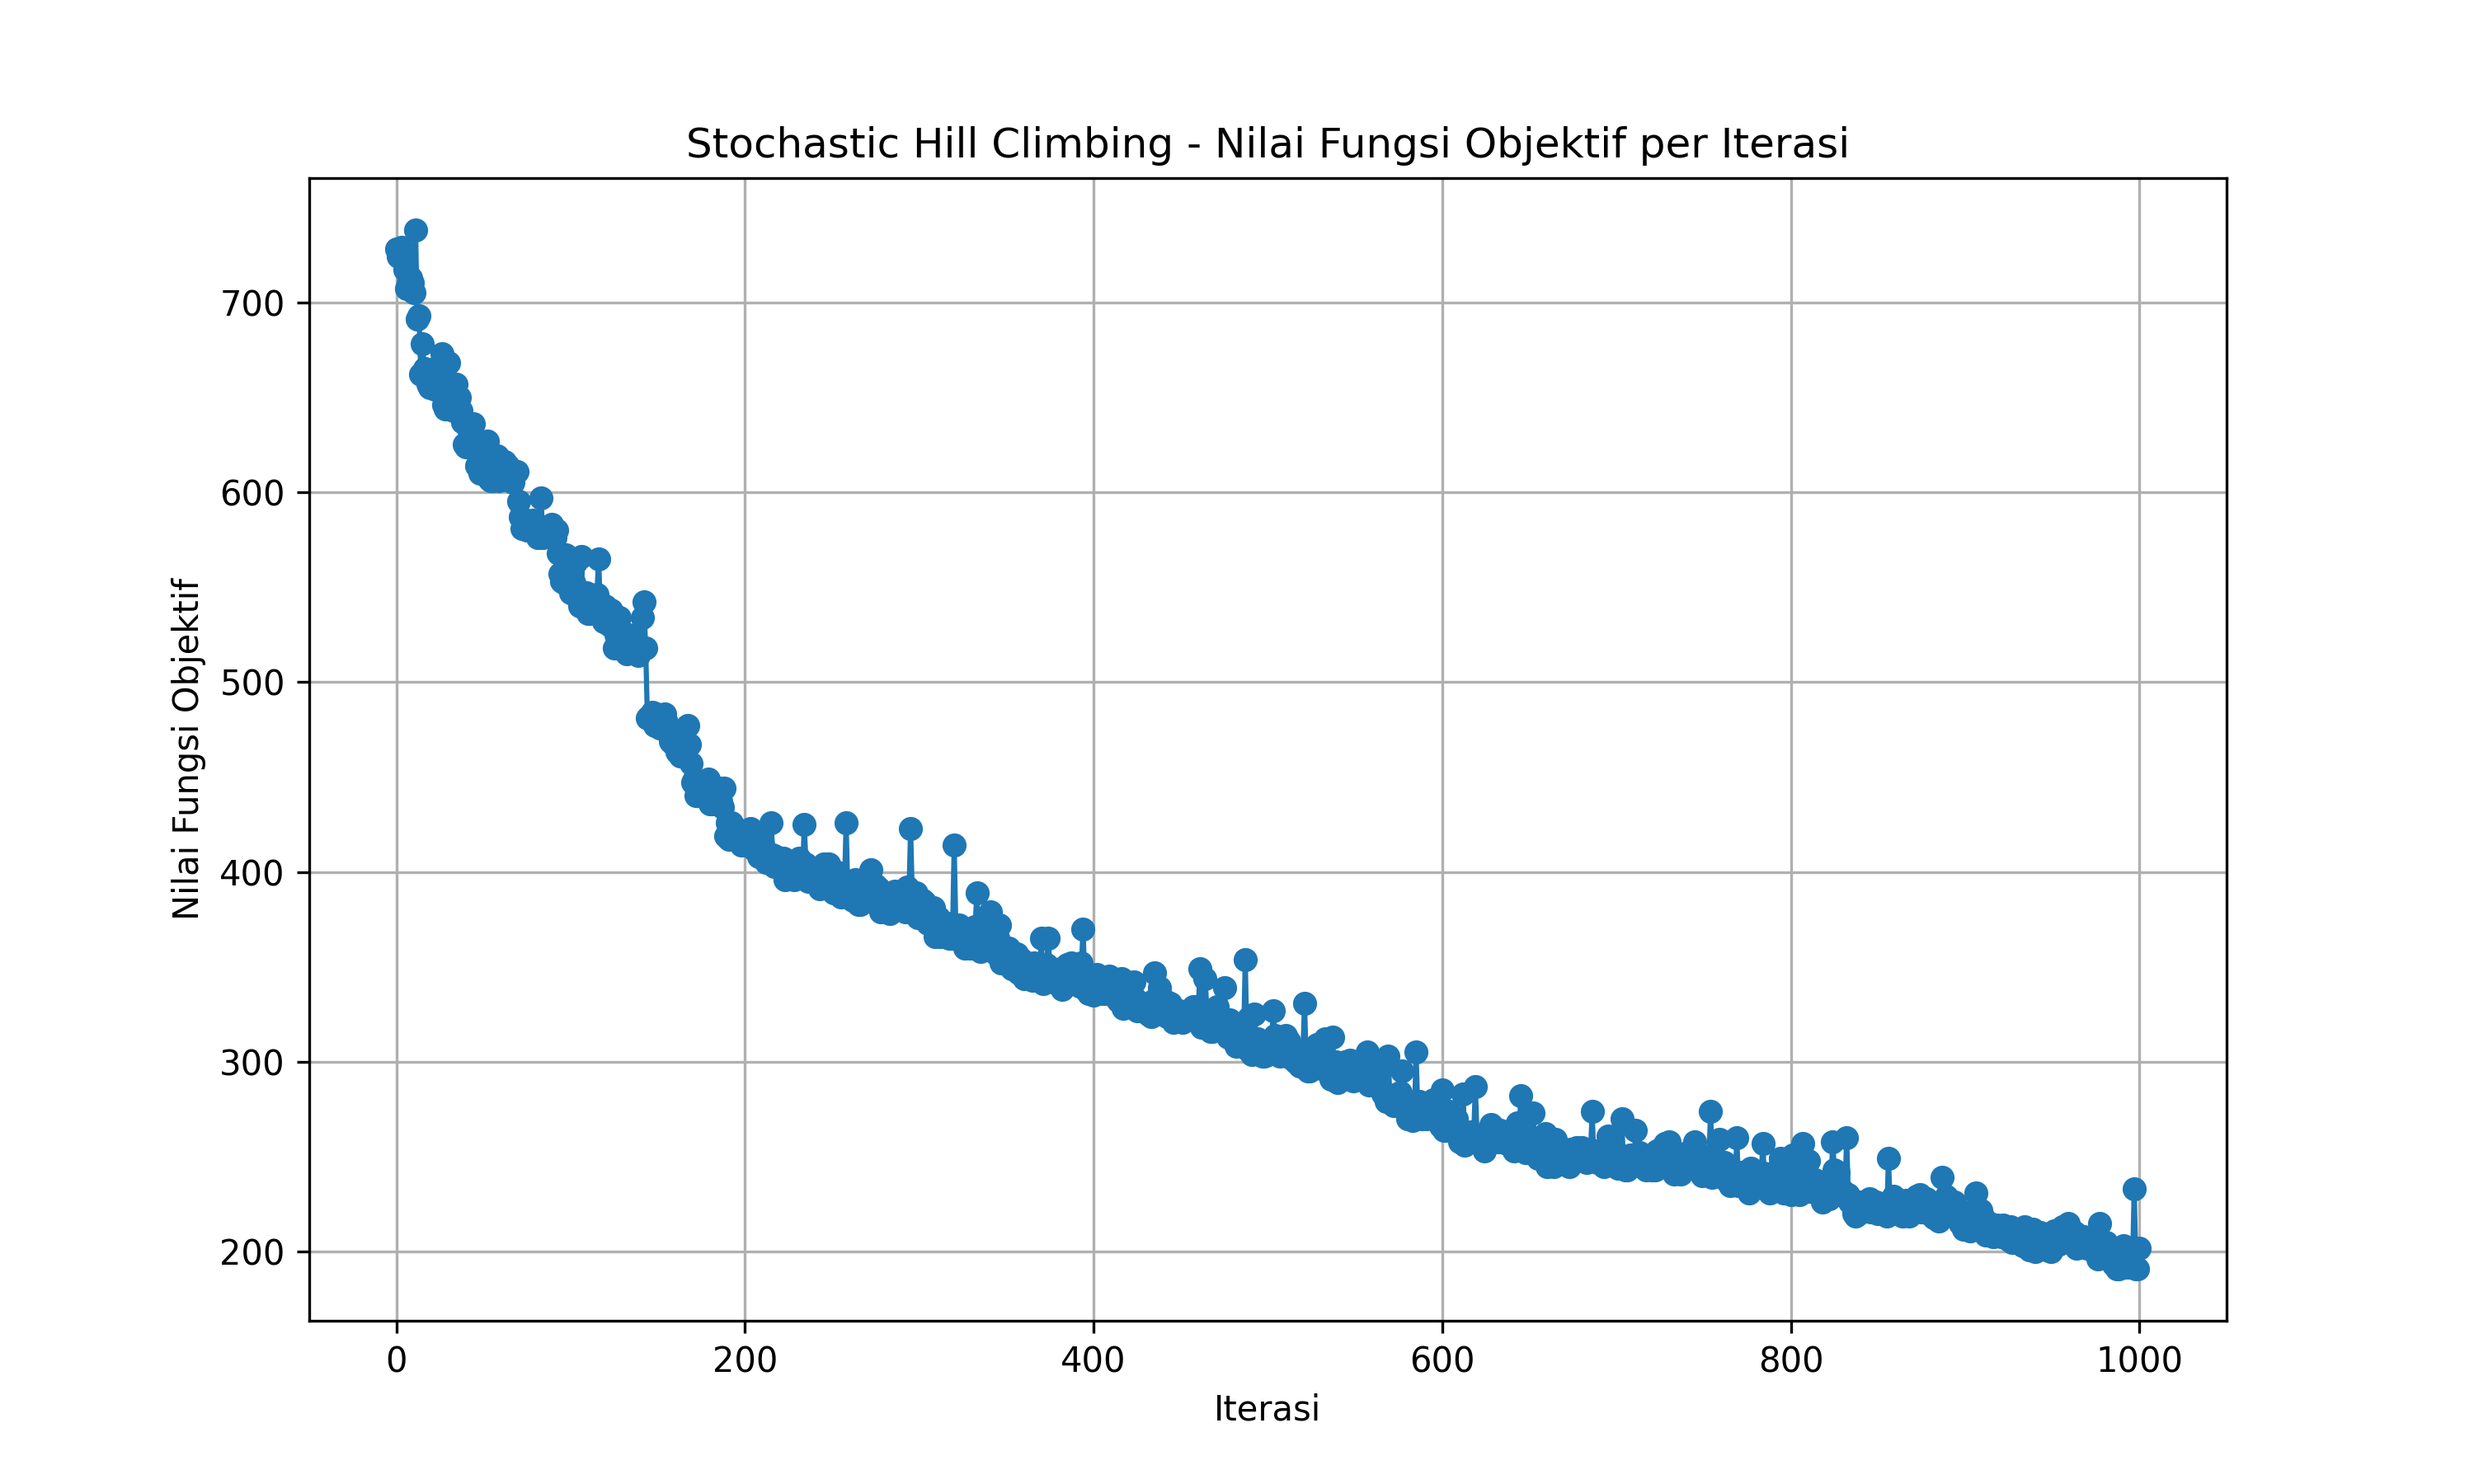
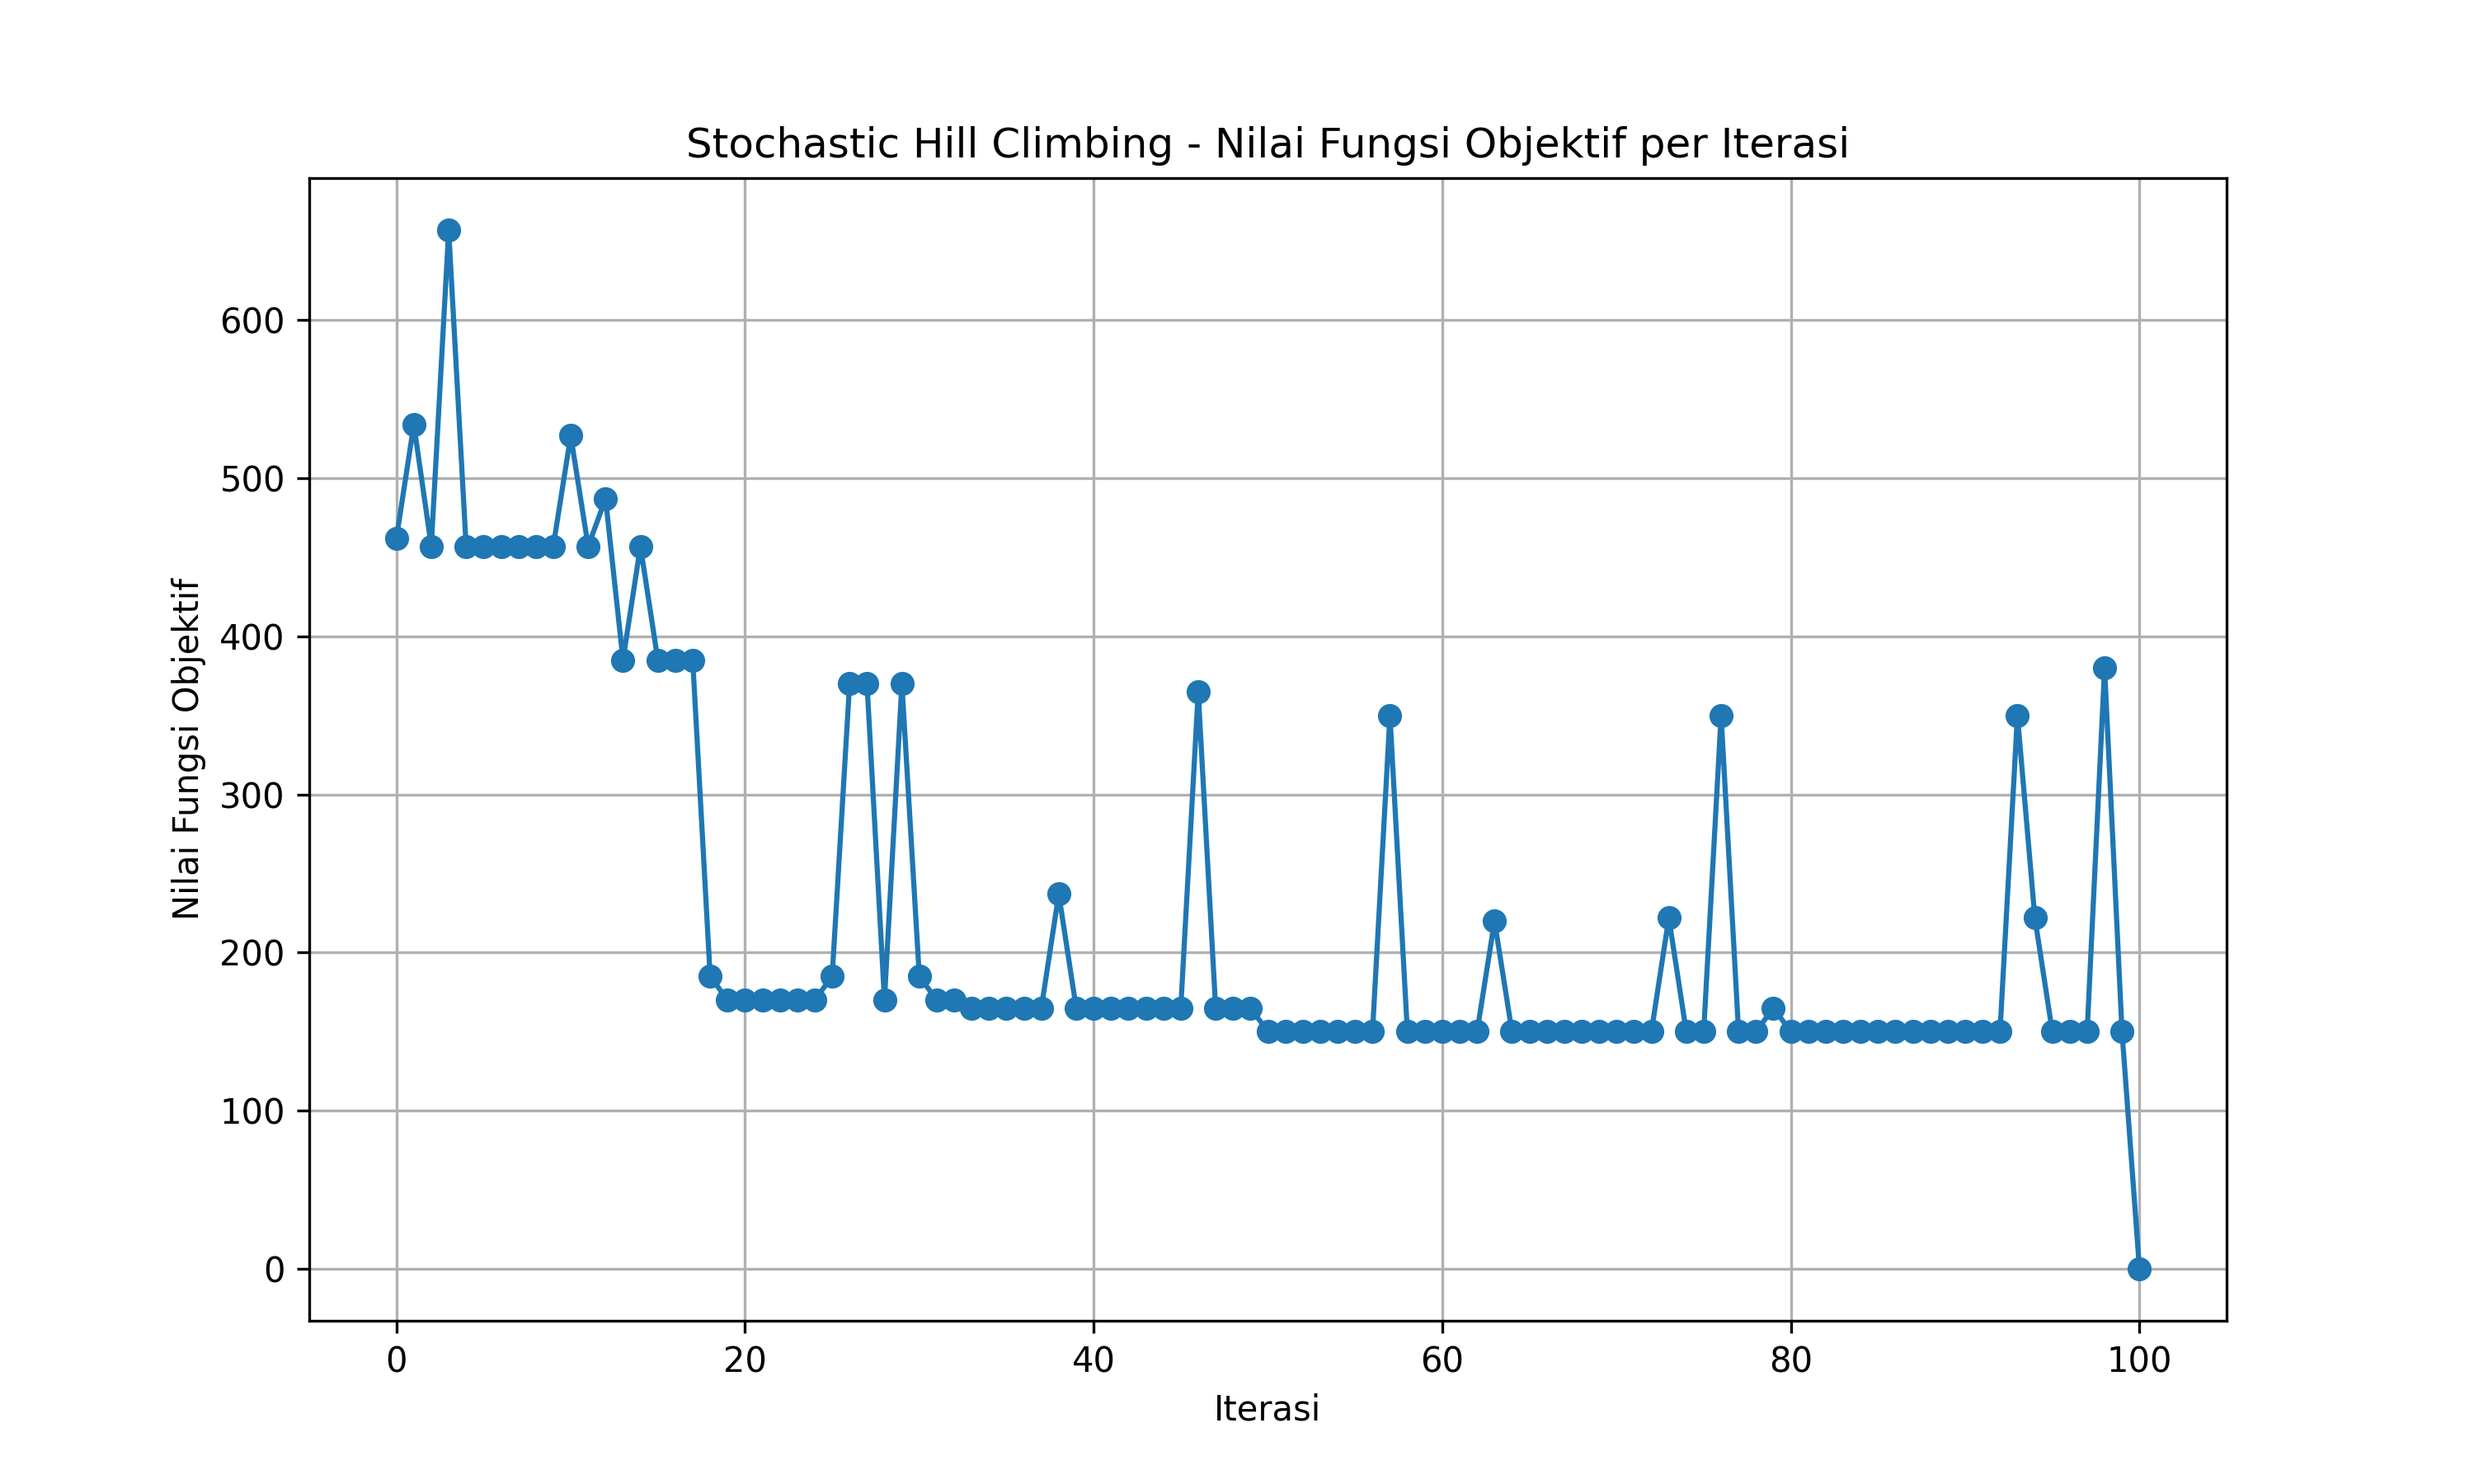
test: testing hill climbing

diff --git a/src/algorithm/hill_climbing.py b/src/algorithm/hill_climbing.py
@@ -49,97 +49,114 @@ def hill_climbing_steepest(state, data, slots, max_iter=1000):
     current_score = evaluate(current, data)
     visited = {tuple(sorted(current.items()))}
     scores = [current_score]
-    
+
+    print(f"[INIT] Nilai fungsi objektif awal = {current_score}")
+
     for step in range(max_iter):
-        neighbors = []
         attempts = 0
-        seen_candidates = set()
-        while not neighbors and attempts < 100:
-            candidate = getNeighbors(current, slots, data["kelas_mata_kuliah"])
+        candidate = None
+
+        # cari 1 neighbor yang valid
+        while attempts < 100:
             attempts += 1
-            if candidate is None:
+            print(f"[DEBUG] Percobaan neighbor ke-{attempts}")
+            neighbor = getNeighbors(current, slots, data["kelas_mata_kuliah"])
+            if neighbor is None:
+                print("[DEBUG] Tetangga yang dihasilkan tidak ada, coba lagi.")
                 continue
-            signature = tuple(sorted(candidate.items()))
-            if signature in visited or signature in seen_candidates:
+
+            signature = tuple(sorted(neighbor.items()))
+            if signature in visited:
+                print("[DEBUG] Tetangga sudah pernah dikunjungi, coba lagi.")
                 continue
-            neighbors.append(candidate)
-            seen_candidates.add(signature)
-        if not neighbors:
-            print("[DEBUG] Tidak ada tetangga yang valid ditemukan, stop.")
+
+            candidate = neighbor
+            visited.add(signature)
+            print("[DEBUG] Tetangga valid ditemukan.")
             break
-        
-        scored_neighbors = [(evaluate(neighbor, data), neighbor) for neighbor in neighbors]
-        scored_neighbors.sort(key=lambda x: x[0])
 
-        best_score, best_neighbor = scored_neighbors[0]
-        print(f"Step {step+1}: Nilai fungsi objektif awal = {current_score}, akhir = {best_score}")
+        # tidak ada tetangga baru
+        if candidate is None:
+            print("[STOP] Tidak ada tetangga valid ditemukan, berhenti.")
+            break
 
-        if best_score <= 0:
-            print("[DONE] Solusi optimal ditemukan")
-            current, current_score = best_neighbor, best_score
+        neighbor_score = evaluate(candidate, data)
+        print(f"[STEP {step+1}] Current={current_score}, Neighbor={neighbor_score}")
+
+        # evaluasi hasil
+        if neighbor_score < current_score:
+            current, current_score = candidate, neighbor_score
+            scores.append(current_score)
+        elif neighbor_score <= 0:
+            print("[DONE] Solusi optimal ditemukan.")
+            current, current_score = candidate, neighbor_score
             scores.append(current_score)
             break
-        elif best_score < current_score:
-            current, current_score = best_neighbor, best_score
-            scores.append(current_score)
-            side_count = 0
         else:
-            print("[DONE] Tidak ada perbaikan lebih lanjut, berhenti.")
+            print("[STOP] Tidak ada perbaikan lebih lanjut, berhenti.")
             break
-        visited.add(tuple(sorted(current.items())))
 
     return current, current_score, scores
+
 
 
 def hill_climbing_sideways(state, data, slots, max_iter=1000, max_side=20):
     current = state
     current_score = evaluate(current, data)
-    side_count = 0
     visited = {tuple(sorted(current.items()))}
     scores = [current_score]
-    
+    side_count = 0
+
+    print(f"[INIT] Nilai fungsi objektif awal = {current_score}")
+
     for step in range(max_iter):
-        neighbors = []
         attempts = 0
-        seen_candidates = set()
-        while not neighbors and attempts < 100:
-            candidate = getNeighbors(current, slots, data["kelas_mata_kuliah"])
+        candidate = None
+
+        # cari 1 neighbor yang valid
+        while attempts < 100:
             attempts += 1
-            if candidate is None:
+            print(f"[DEBUG] Percobaan neighbor ke-{attempts}")
+            neighbor = getNeighbors(current, slots, data["kelas_mata_kuliah"])
+            if neighbor is None:
+                print("[DEBUG] Tetangga yang dihasilkan tidak ada, coba lagi.")
                 continue
-            signature = tuple(sorted(candidate.items()))
-            if signature in visited or signature in seen_candidates:
+
+            signature = tuple(sorted(neighbor.items()))
+            if signature in visited:
+                print("[DEBUG] Tetangga sudah pernah dikunjungi, coba lagi.")
                 continue
-            neighbors.append(candidate)
-            seen_candidates.add(signature)
-        if not neighbors:
-            print("[DEBUG] Tidak ada tetangga yang valid ditemukan, stop.")
-            break
-        
-        scored_neighbors = [(evaluate(neighbor, data), neighbor) for neighbor in neighbors]
-        scored_neighbors.sort(key=lambda x: x[0])
 
-        best_score, best_neighbor = scored_neighbors[0]
-        print(f"Step {step+1}: Nilai fungsi objektif awal = {current_score}, akhir = {best_score}, Sideways Move = {side_count}")
-
-        if best_score <= 0:
-            print("[DONE] Solusi optimal ditemukan")
-            current, current_score = best_neighbor, best_score
-            scores.append(current_score)
+            candidate = neighbor
+            visited.add(signature)
+            print("[DEBUG] Tetangga valid ditemukan.")
             break
-        elif best_score < current_score:
-            current, current_score = best_neighbor, best_score
+
+        if candidate is None:
+            print("[STOP] Tidak ada tetangga valid ditemukan, berhenti.")
+            break
+
+        neighbor_score = evaluate(candidate, data)
+        print(f"[STEP {step+1}] Current={current_score}, Neighbor={neighbor_score}, Sideways={side_count}")
+
+        # evaluasi hasil
+        if neighbor_score < current_score:
+            current, current_score = candidate, neighbor_score
             scores.append(current_score)
             side_count = 0
-        elif best_score == current_score and side_count < max_side:
-            current, current_score = best_neighbor, best_score
+        elif neighbor_score == current_score and side_count < max_side:
+            print(f"[SIDEWAYS] Langkah datar ke-{side_count+1}")
+            current, current_score = candidate, neighbor_score
             scores.append(current_score)
-            print("[SIDEWAYS] Melakukan sideways move")
             side_count += 1
-        else:
-            print("[DONE] Tidak ada perbaikan lebih lanjut, berhenti.")
+        elif neighbor_score <= 0:
+            print("[DONE] Solusi optimal ditemukan.")
+            current, current_score = candidate, neighbor_score
+            scores.append(current_score)
             break
-        visited.add(tuple(sorted(current.items())))
+        else:
+            print("[STOP] Tidak ada perbaikan lebih lanjut, berhenti.")
+            break
 
     return current, current_score, scores
 
@@ -190,9 +207,11 @@ def hill_climbing_stochastic(state, data, slots, max_iter=1000, max_attempts=50)
 
         # generate neighbor yang belum pernah diambil
         while attempts < max_attempts:
+            print(f"[DEBUG] Mencari tetangga valid, percobaan ke-{attempts+1}")
             attempts += 1
             candidate = getNeighbors(current, slots, data["kelas_mata_kuliah"])
             if candidate is None:
+                print("[DEBUG] Tetangga yang dihasilkan tidak ada, coba lagi.")
                 continue
 
             key = tuple(sorted(candidate.items()))
@@ -200,6 +219,9 @@ def hill_climbing_stochastic(state, data, slots, max_iter=1000, max_attempts=50)
                 neighbor = candidate
                 visited.add(key)
                 break
+            else:
+                print("[DEBUG] Tetangga sudah pernah dikunjungi, coba lagi.")
+                continue
 
         # kalau gak ada neighbor baru
         if neighbor is None:

diff --git a/tests/test_hill_climbing.py b/tests/test_hill_climbing.py
@@ -1,0 +1,40 @@
+import json
+import random
+import unittest
+from pathlib import Path
+
+from src.hill_climbing import hill_climb_with_sideways
+from src.objective import evaluate
+from src.state import generate_slots, init_state
+
+
+class HillClimbingTests(unittest.TestCase):
+    def test_hill_climbing_never_worsens_objective(self) -> None:
+        root_dir = Path(__file__).resolve().parents[1]
+
+        with open(root_dir / "data" / "sample_input.json", "r", encoding="utf-8") as f:
+            data = json.load(f)
+
+        slots = generate_slots([ruang["kode"] for ruang in data["ruangan"]])
+
+        random.seed(0)
+        initial_state = init_state(data["kelas_mata_kuliah"], slots)
+        initial_score = evaluate(initial_state, data)
+
+        result = hill_climb_with_sideways(
+            initial_state,
+            data,
+            slots,
+            max_iterations=200,
+            max_sideways=20,
+            random_seed=0,
+        )
+
+        final_score = evaluate(result.state, data)
+
+        self.assertEqual(result.score, final_score)
+        self.assertLessEqual(result.score, initial_score)
+
+
+if __name__ == "__main__":
+    unittest.main()

diff --git a/src/main.py b/src/main.py
@@ -90,7 +90,7 @@ if __name__ == "__main__":
     elif n == 3:
         print("\nStarting Hill Climbing with Random Restart...")
         start_time = time.time()
-        final_state, final_score, scores = hill_climbing_random_restart(state_awal, data, slots, max_restarts=10, max_iter=1000)
+        final_state, final_score, scores = hill_climbing_random_restart(state_awal, data, slots, max_restarts=100, max_iter=1000)
         duration = time.time() - start_time
         algo_name = "Hill Climbing (Random Restart)"
 
